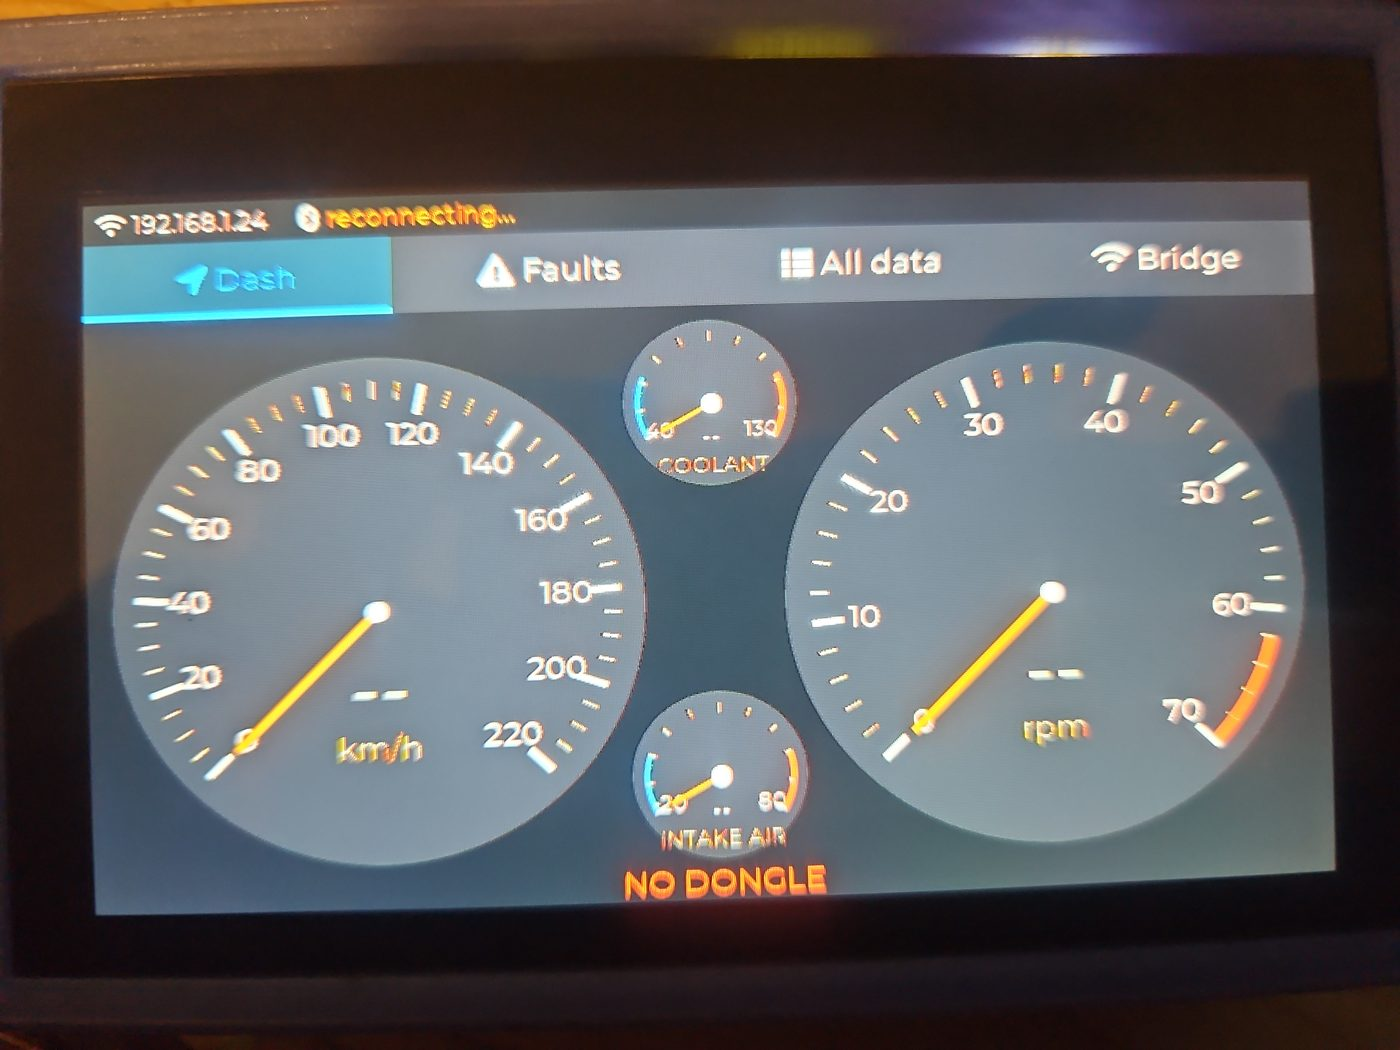
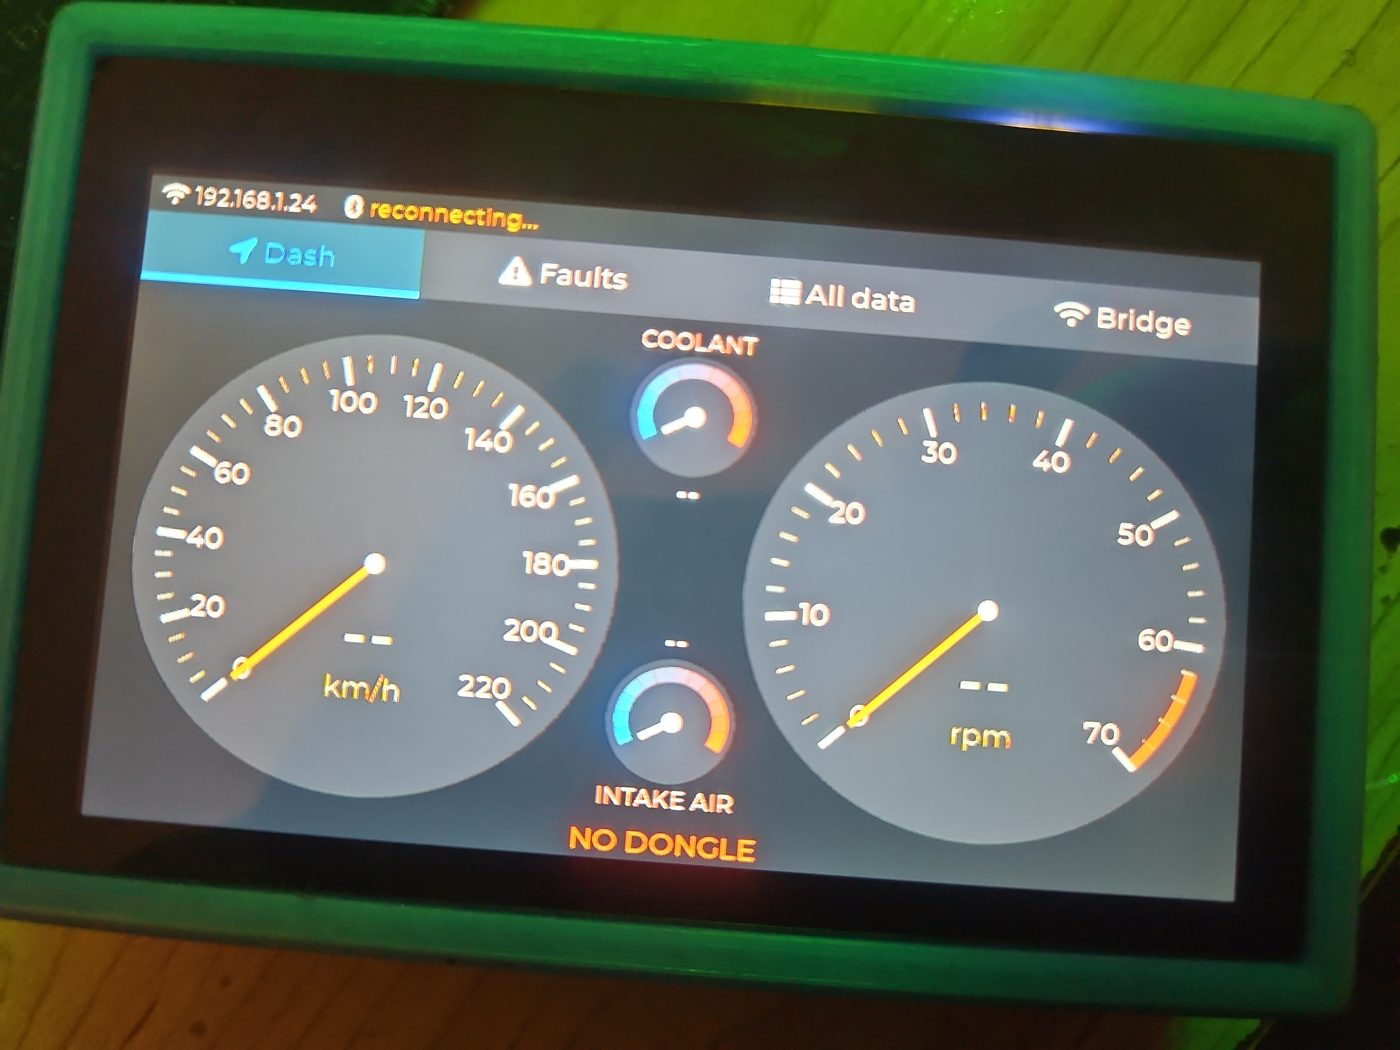
Replace the README dash photo with the current gauge layout

diff --git a/README.md b/README.md
@@ -6,7 +6,7 @@ It started as a way to find out what a no-name OBD2 dongle actually does and wha
 
 ![The Dash screen on the Waveshare 4.3" display, waiting for the dongle](docs/dash.jpg)
 
-*The Dash screen, waiting for the dongle. Photo taken just before the small coolant and intake gauges were simplified to plain blue-to-red arcs, with readings and captions outside the gauge.*
+*The Dash screen, waiting for the dongle: speedometer, tachometer, coolant and intake-air gauges in the centre, and the battery voltage / connection status at the bottom.*
 
 > **Not a certified instrument cluster.** It only shows what the engine ECU reports over OBD2. It cannot show turn signals, high beam, oil pressure, brake, ABS, airbag or fuel level, and on slow K-line cars speed updates about twice a second. Use it alongside the car's own warning lamps.
 
